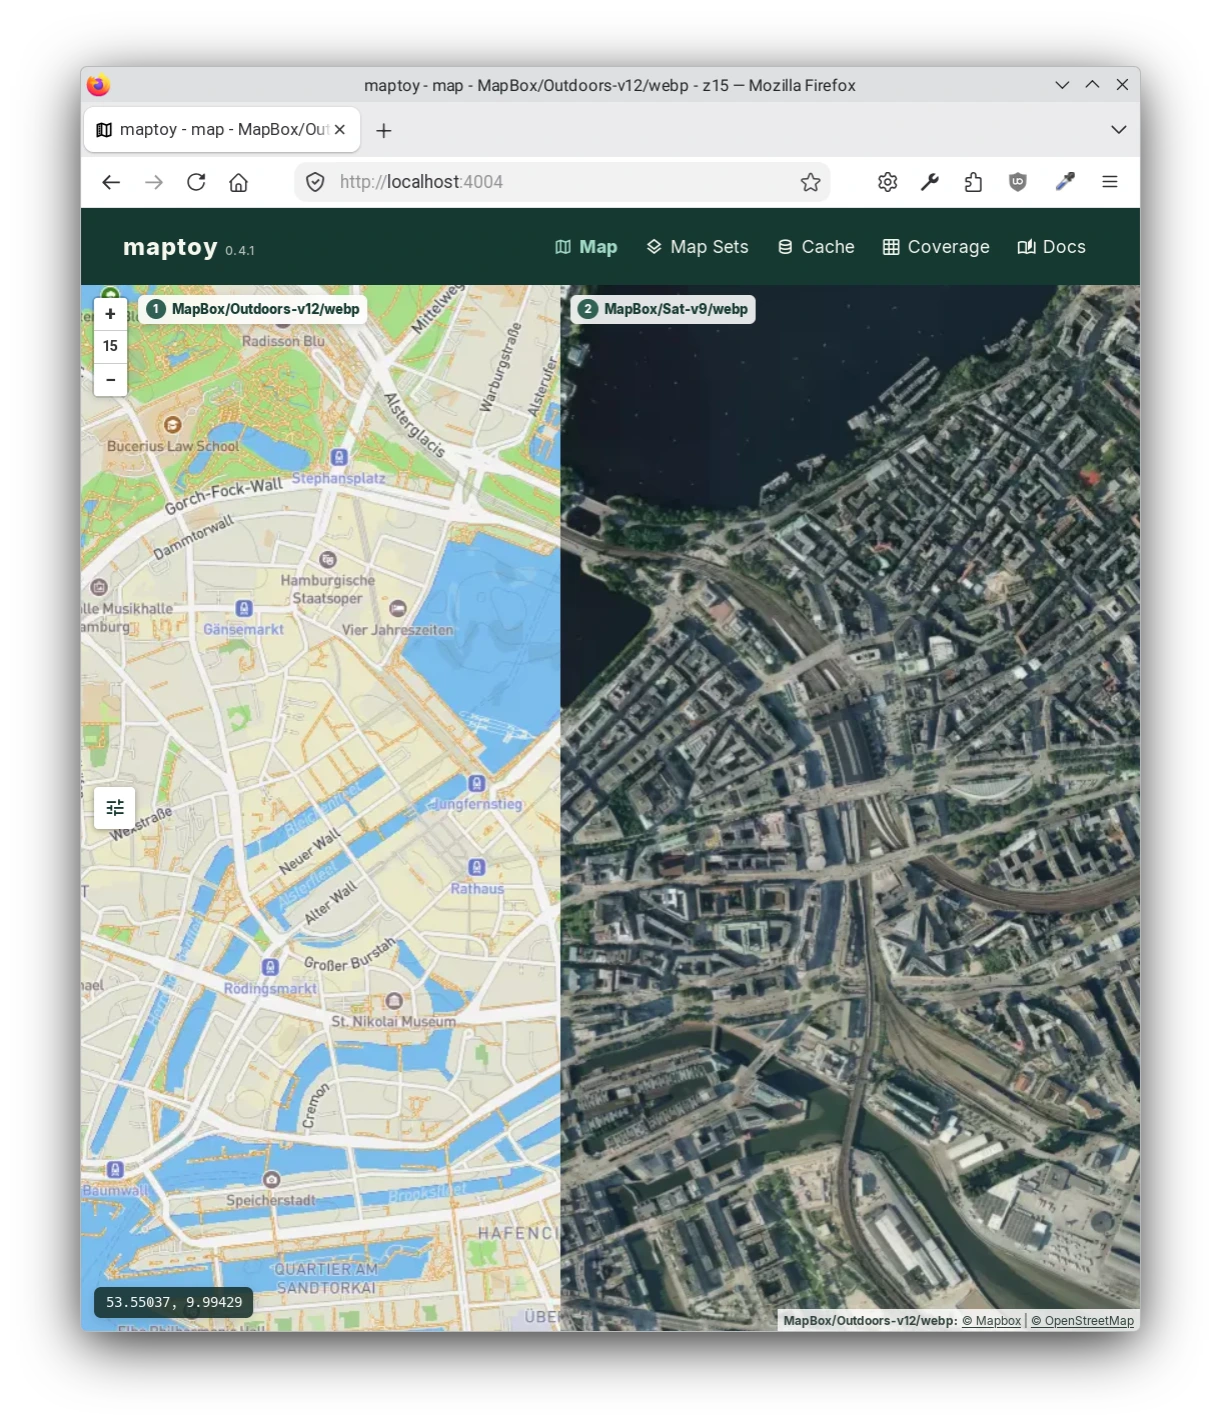
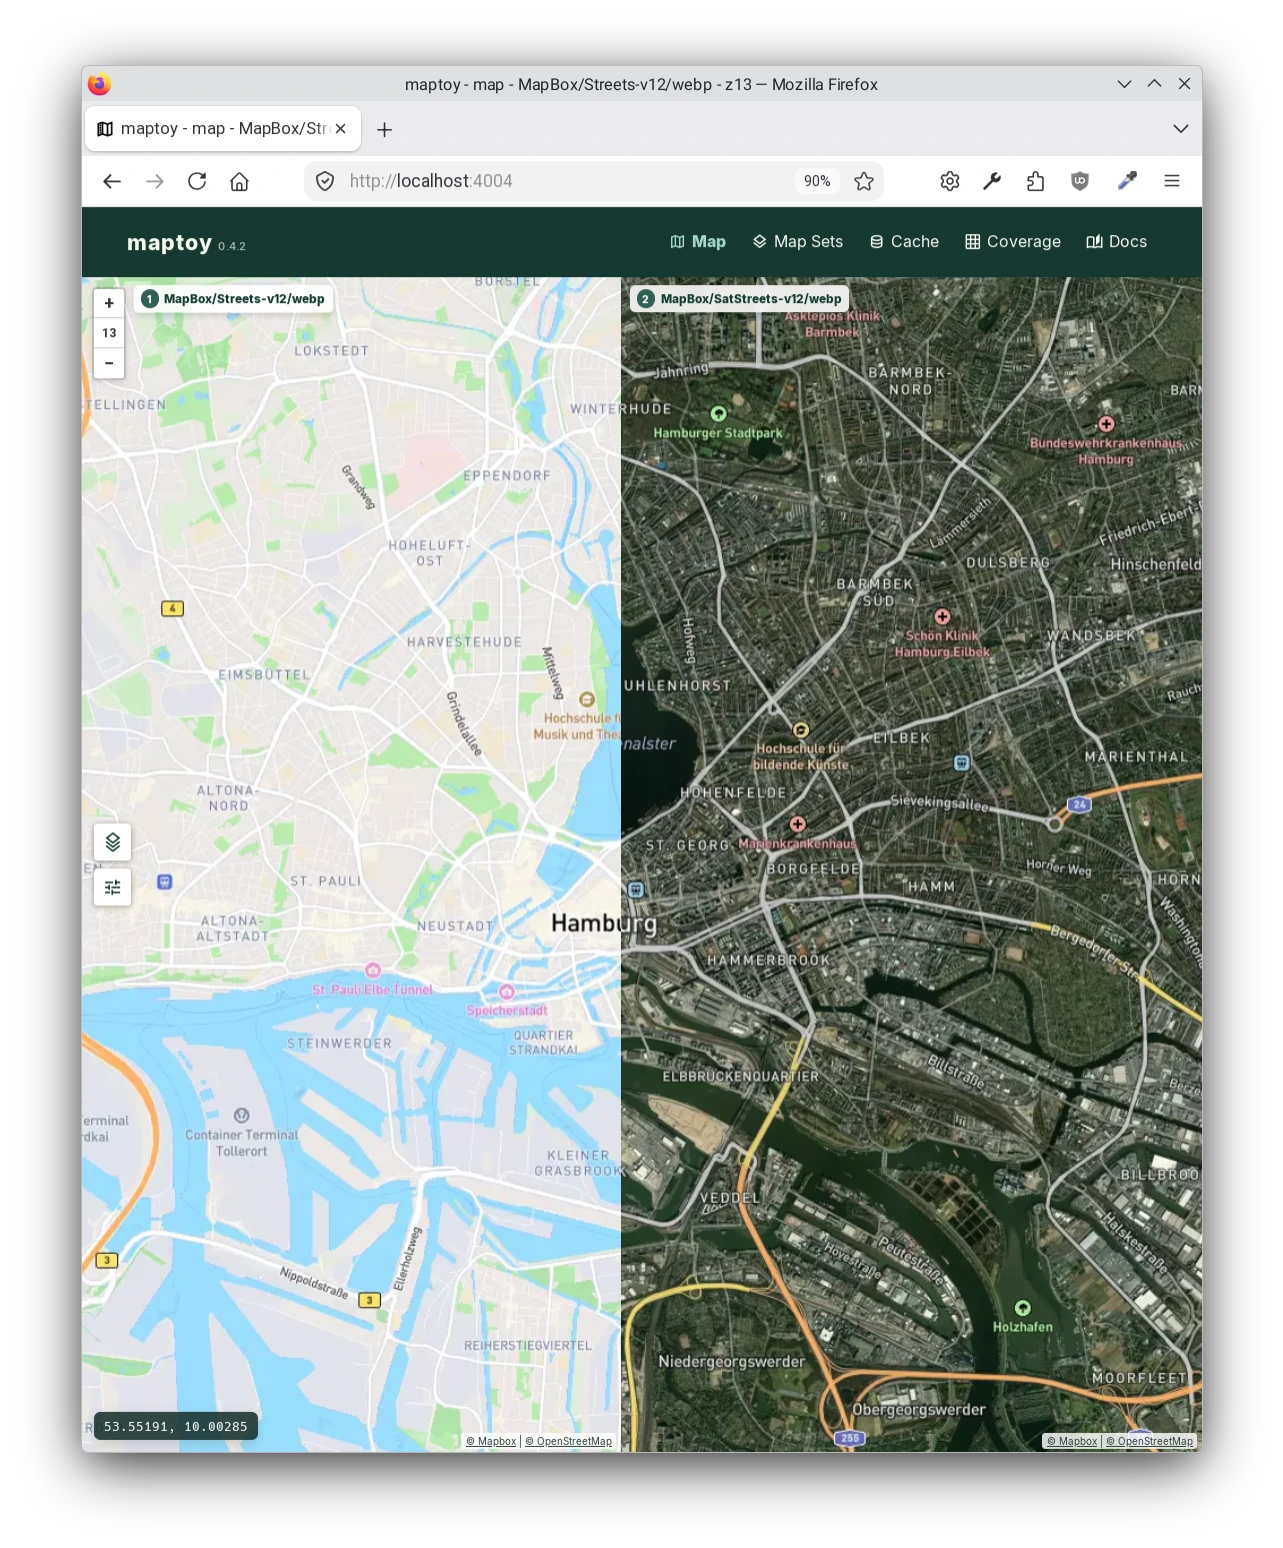
doc tweaks

diff --git a/docs/de/tile-providers.md b/docs/de/tile-providers.md
@@ -6,7 +6,7 @@ language: de
 
 # Tile-Provider
 
-Letzte inhaltliche Prüfung: **2026-08-24**.
+Letzte inhaltliche Prüfung: **2026-09-04**.
 
 Diese Seite dient der technischen Orientierung. Sie ist weder Empfehlung noch
 Rechtsprüfung oder Garantie dafür, dass ein Provider eine bestimmte Nutzung erlaubt.
@@ -36,7 +36,7 @@ Secrets.
 | [Stadia Maps](https://stadiamaps.com/) | Direkt | Standardbedingungen verbieten serverseitigen Proxy/Cache und allgemeinen Bulk-Download. |
 | [Thunderforest](https://www.thunderforest.com/maps/) | Direkt | Standardbedingungen erlauben begrenztes Client-/Geräte-Caching, verbieten jedoch Caching-Proxys und Weitergabe. |
 | [ArcGIS Location](https://location.arcgis.com/) | Direkt mit Pfadreihenfolge `{z}/{y}/{x}` | Konto-, Dienst- und vertragsabhängig; keine allgemeine Archiverlaubnis. |
-| [Google Maps](https://maps.google.com/) | Nicht direkt | Session-Erzeugung, dynamische Attribution und Cache-Beschränkungen widersprechen dem aktuellen statischen Map-Set- und Archivmodell. |
+| [Google Maps](https://maps.google.com/) | Manuell und eingeschränkt für 2D-Tiles | Eine extern erzeugte Session kann verwendet werden; *maptoy* erzeugt oder erneuert Sessions jedoch nicht und ruft keine Viewport-Attribution ab. Googles Cache-Beschränkungen begrenzen die Archivfunktionen. |
 
 ## OpenStreetMap Standard
 
@@ -265,22 +265,31 @@ und [Esri-Rechtsübersicht](https://www.esri.com/en-us/legal/overview).
 **Varianten:** Roadmap, Satellite, Terrain, Street View und Photorealistic 3D. Nur
 die 2D-Antworten für Roadmap, Satellite und Terrain ähneln Raster-XYZ-Tiles.
 
-**Referenz-URL:**
-`https://tile.googleapis.com/v1/2dtiles/{z}/{x}/{y}?session={sessionToken}&key=${MAPTOY_GOOGLE_MAPS_API_KEY}`
+**Manuelles Map-Set-URL-Template:**
+`https://tile.googleapis.com/v1/2dtiles/{z}/{x}/{y}?session=${MAPTOY_GOOGLE_MAPS_SESSION_TOKEN}&key=${MAPTOY_GOOGLE_MAPS_API_KEY}`
 
 **Parameter und Ablauf:** API-Schlüssel und kurzlebiges Session-Token sind Pflicht.
-Das Token muss zuerst per POST mit `mapType`, `language` und `region` sowie optionalen
-Skalierungs-, Layer- und Stilwerten erzeugt werden. Zusätzlich wird eine
-Viewport-Abfrage benötigt, um aktuelle Abdeckung und Attribution des sichtbaren
-Gebiets zu erhalten.
+*maptoy* kann beides aus seiner Serverumgebung lesen und ein vorhandenes, noch
+gültiges Token für gewöhnliche 2D-Tile-Anfragen verwenden. Es erzeugt oder erneuert
+dieses Token jedoch nicht. Das Token muss extern per POST mit `mapType`, `language`
+und `region` sowie optionalen Skalierungs-, Layer- und Stilwerten erzeugt werden.
+Google dokumentiert derzeit eine Gültigkeitsdauer von ungefähr zwei Wochen, die sich
+ändern kann. Ersetze nach Ablauf den Environment-Wert und starte beziehungsweise
+erzeuge den *maptoy*-Prozess neu. Zusätzlich wird eine Viewport-Abfrage benötigt, um
+aktuelle Abdeckung und Attribution des sichtbaren Gebiets zu erhalten; *maptoy* führt
+diese Abfrage nicht aus.
 
 **Policy und Kompatibilität:** *maptoy* v1.0 enthält bewusst keinen Google-Maps-Adapter.
-Ein statisches XYZ-Map-Set kann weder Sessions erzeugen und erneuern noch die
-erforderliche viewportabhängige Attribution pflegen. Google beschränkt außerdem
-Prefetch, Caching, Speicherung, nicht visuelle Analyse und Offline-Nutzung. Daher darf
-die Referenz-URL nicht als *maptoy*-v1-Map-Set konfiguriert werden. Auch ein künftiger
-dedizierter Adapter müsste inkompatible Archivfunktionen deaktivieren und den
-vollständigen Session- und Attributionsablauf implementieren.
+Der allgemeine Leaflet-/XYZ-Adapter kann 2D-Tiles dennoch technisch abrufen und
+anzeigen, wenn wie oben ein gültiges Session-Token bereitgestellt wird. Das ist eine
+eingeschränkte manuelle Kompatibilität und keine vollständige Integration der Google
+Maps Platform: *maptoy* kann die erforderliche viewportabhängige Attribution nicht
+pflegen. Google beschränkt außerdem Prefetch, Caching, Speicherung, nicht visuelle
+Analyse und Offline-Nutzung. Solange die für das Konto geltende Vereinbarung dies
+nicht ausdrücklich erlaubt, müssen Tile Archive, Cache, Batch-Download und
+Serverexport deaktiviert bleiben. Auch ein künftiger dedizierter Adapter müsste den
+vollständigen Session- und Attributionsablauf implementieren und inkompatible
+Archivfunktionen deaktivieren.
 
 **Offizielle Informationen:** [Map Tiles API](https://developers.google.com/maps/documentation/tile/overview),
 [Session-Tokens](https://developers.google.com/maps/documentation/tile/session_tokens),

diff --git a/docs/en/tile-providers.md b/docs/en/tile-providers.md
@@ -6,7 +6,7 @@ language: en
 
 # Tile Providers
 
-Last content review: **2026-08-24**.
+Last content review: **2026-09-04**.
 
 This page is a technical orientation, not a recommendation, legal review, or
 guarantee that a provider permits a particular use. Provider terms, plans, URLs,
@@ -34,7 +34,7 @@ the examples below use `${MAPTOY_*}` references rather than real secrets.
 | [Stadia Maps](https://stadiamaps.com/) | Direct | Standard terms prohibit server-side proxying/caching and general bulk download. |
 | [Thunderforest](https://www.thunderforest.com/maps/) | Direct | Standard terms allow limited client/device caching but prohibit caching proxies and redistribution. |
 | [ArcGIS Location](https://location.arcgis.com/) | Direct with `{z}/{y}/{x}` path order | Account-, service-, and agreement-dependent; no general archival permission is implied. |
-| [Google Maps](https://maps.google.com/) | Not directly | Session creation, dynamic attribution, and caching restrictions conflict with *maptoy*'s current static Map Set and archive model. |
+| [Google Maps](https://maps.google.com/) | Manual and limited for 2D tiles | An externally created session can be used, but *maptoy* does not create or renew sessions or retrieve viewport attribution. Google's caching restrictions limit archive features. |
 
 ## OpenStreetMap Standard
 
@@ -254,21 +254,29 @@ and [Esri legal overview](https://www.esri.com/en-us/legal/overview).
 **Variants:** Roadmap, satellite, terrain, Street View, and Photorealistic 3D. Only
 the 2D roadmap, satellite, and terrain responses resemble raster XYZ tiles.
 
-**Reference tile URL:**
-`https://tile.googleapis.com/v1/2dtiles/{z}/{x}/{y}?session={sessionToken}&key=${MAPTOY_GOOGLE_MAPS_API_KEY}`
+**Manual Map Set URL template:**
+`https://tile.googleapis.com/v1/2dtiles/{z}/{x}/{y}?session=${MAPTOY_GOOGLE_MAPS_SESSION_TOKEN}&key=${MAPTOY_GOOGLE_MAPS_API_KEY}`
 
 **Parameters and workflow:** An API key and a short-lived session token are required.
-The token must first be created with a POST request containing `mapType`, `language`,
-and `region`, plus optional scale, layer, and style settings. A viewport request is
-also needed to obtain current coverage and attribution for the displayed area.
+*maptoy* can read both from its server environment and use an existing, currently
+valid token for ordinary 2D tile requests. It does not create or renew that token.
+The token must be created externally with a POST request containing `mapType`,
+`language`, and `region`, plus optional scale, layer, and style settings. Google
+currently documents a lifetime of about two weeks, subject to change. Replace the
+environment value and restart or recreate the *maptoy* process when the token
+expires. A viewport request is also needed to obtain current coverage and
+attribution for the displayed area; *maptoy* does not perform that request.
 
 **Policy and compatibility notes:** *maptoy* v1.0 intentionally has no Google Maps
-adapter. A static XYZ Map Set cannot create or renew sessions or maintain the
-required viewport-dependent attribution. Google also restricts prefetching,
-caching, storage, non-visualization analysis, and offline use. For these technical
-and policy reasons, do not configure the reference URL as a *maptoy* v1 Map Set. A
-future dedicated adapter would still need to disable incompatible archive features
-and implement Google's complete session and attribution workflow.
+adapter. Nevertheless, the generic Leaflet/XYZ adapter can technically request and
+display 2D tiles when a valid session token is supplied as shown above. This is
+limited manual compatibility, not a complete Google Maps Platform integration:
+*maptoy* cannot maintain the required viewport-dependent attribution. Google also
+restricts prefetching, caching, storage, non-visualization analysis, and offline
+use. Unless the agreement applicable to the account explicitly permits them, keep
+Tile Archive, cache, batch download, and server export disabled. A future dedicated
+adapter would still need to implement Google's complete session and attribution
+workflow and disable incompatible archive features.
 
 **Official information:** [Map Tiles API overview](https://developers.google.com/maps/documentation/tile/overview),
 [session tokens](https://developers.google.com/maps/documentation/tile/session_tokens),

diff --git a/README.md b/README.md
@@ -29,13 +29,27 @@ mkdir -p .data/logs
 docker compose up --build --detach
 ```
 
+<details>
+<summary>Troubleshooting</summary>
+
+If the container repeatedly exits with an `EACCES` error for `/data` or `/logs`, make the local data directories writable and start it again:
+
+```sh
+chmod a+rwx .data .data/logs
+docker compose up --detach
+```
+
+This may be necessary on NTFS or network drives. If `chmod` has no effect there, place the persistent data on a Linux filesystem or adjust the drive's mount options.
+
+</details>
+
 Open <http://localhost:4004>.
 
 When the server starts with an empty Map Set table, *maptoy* creates an **OpenTopoMap** Map Set automatically. It uses no provider secret and includes the OpenTopoMap CC-BY-SA and OpenStreetMap contributor attribution. Existing Map Sets are never changed or supplemented; if all Map Sets are deleted, the default is created again on the next server start. Review the linked provider information before using the service beyond low-volume exploration.
 
 Compose bind-mounts the host directories configured by `MAPTOY_STORAGE_DATA_DIR` and `MAPTOY_LOGGING_DIR`. They must exist and be writable by the container user. The defaults created above keep everything below `.data`.
 
-Edit `.env` to change the port, data paths, logging, provider limits, or provider secrets. Available settings are listed in [`.env.example`](./.env.example) and explained in the integrated **[Getting started](./docs/en/getting-started.md)** and **[Map Sets](./docs/en/map-sets.md)** documentation.
+Edit `.env` to change the port, data paths, logging, provider limits, or provider secrets like API-keys. Available settings are listed in [`.env.example`](./.env.example) and explained in the integrated **[Getting started](./docs/en/getting-started.md)** and **[Map Sets](./docs/en/map-sets.md)** documentation.
 
 To scan an existing photo directory without copying originals into *maptoy*, set the host path in `.env`:
 
@@ -77,7 +91,7 @@ location /tools/maptoy/ {
 
 ## Firefox extension
 
-This repository also contains the independently versioned [*maptoy* Firefox extension](./extensions/firefox/README.md). It can forward matching browser responses unchanged to configurable HTTP endpoints, including *maptoy*'s Tile seeding API, and optionally map selected source response headers to target request headers. This allows *maptoy* to cache map tiles and their upstream validators from your normal browser sessions.
+This repository also contains the independently versioned [*maptoy* Firefox extension](./extensions/firefox/README.md). It can forward matching browser responses unchanged to configurable HTTP endpoints, including *maptoy*'s Tile seeding API, and optionally map selected source response headers to target request headers. This allows *maptoy* to cache map tiles from your normal browser sessions.
 
 The extension can also be easily reconfigured to feed other caching APIs.
 

diff --git a/docs/en/screenshots.md b/docs/en/screenshots.md
@@ -32,6 +32,8 @@ These examples show a Photo Layer with clustered markers, an open preview popup,
 
 ## Compare Maps
 
-Compare Maps displays two or four Map areas with synchronized pan and zoom. This example compares street and satellite Map Sets side by side in continuous-area mode.
+Compare Maps displays two or four Map areas with synchronized pan and zoom. The first example compares street and satellite Map Sets side by side in continuous-area mode. The second shows four Map Sets sharing the same center and scale, with the Compare Maps settings open.
 
 <img src="../assets/screenshot4.webp" alt="maptoy Compare Maps view showing street and satellite Map Sets side by side">
+
+<img src="../assets/screenshot5.webp" alt="maptoy Compare Maps view showing four Map Sets with the same center and scale and the settings dialog open">
